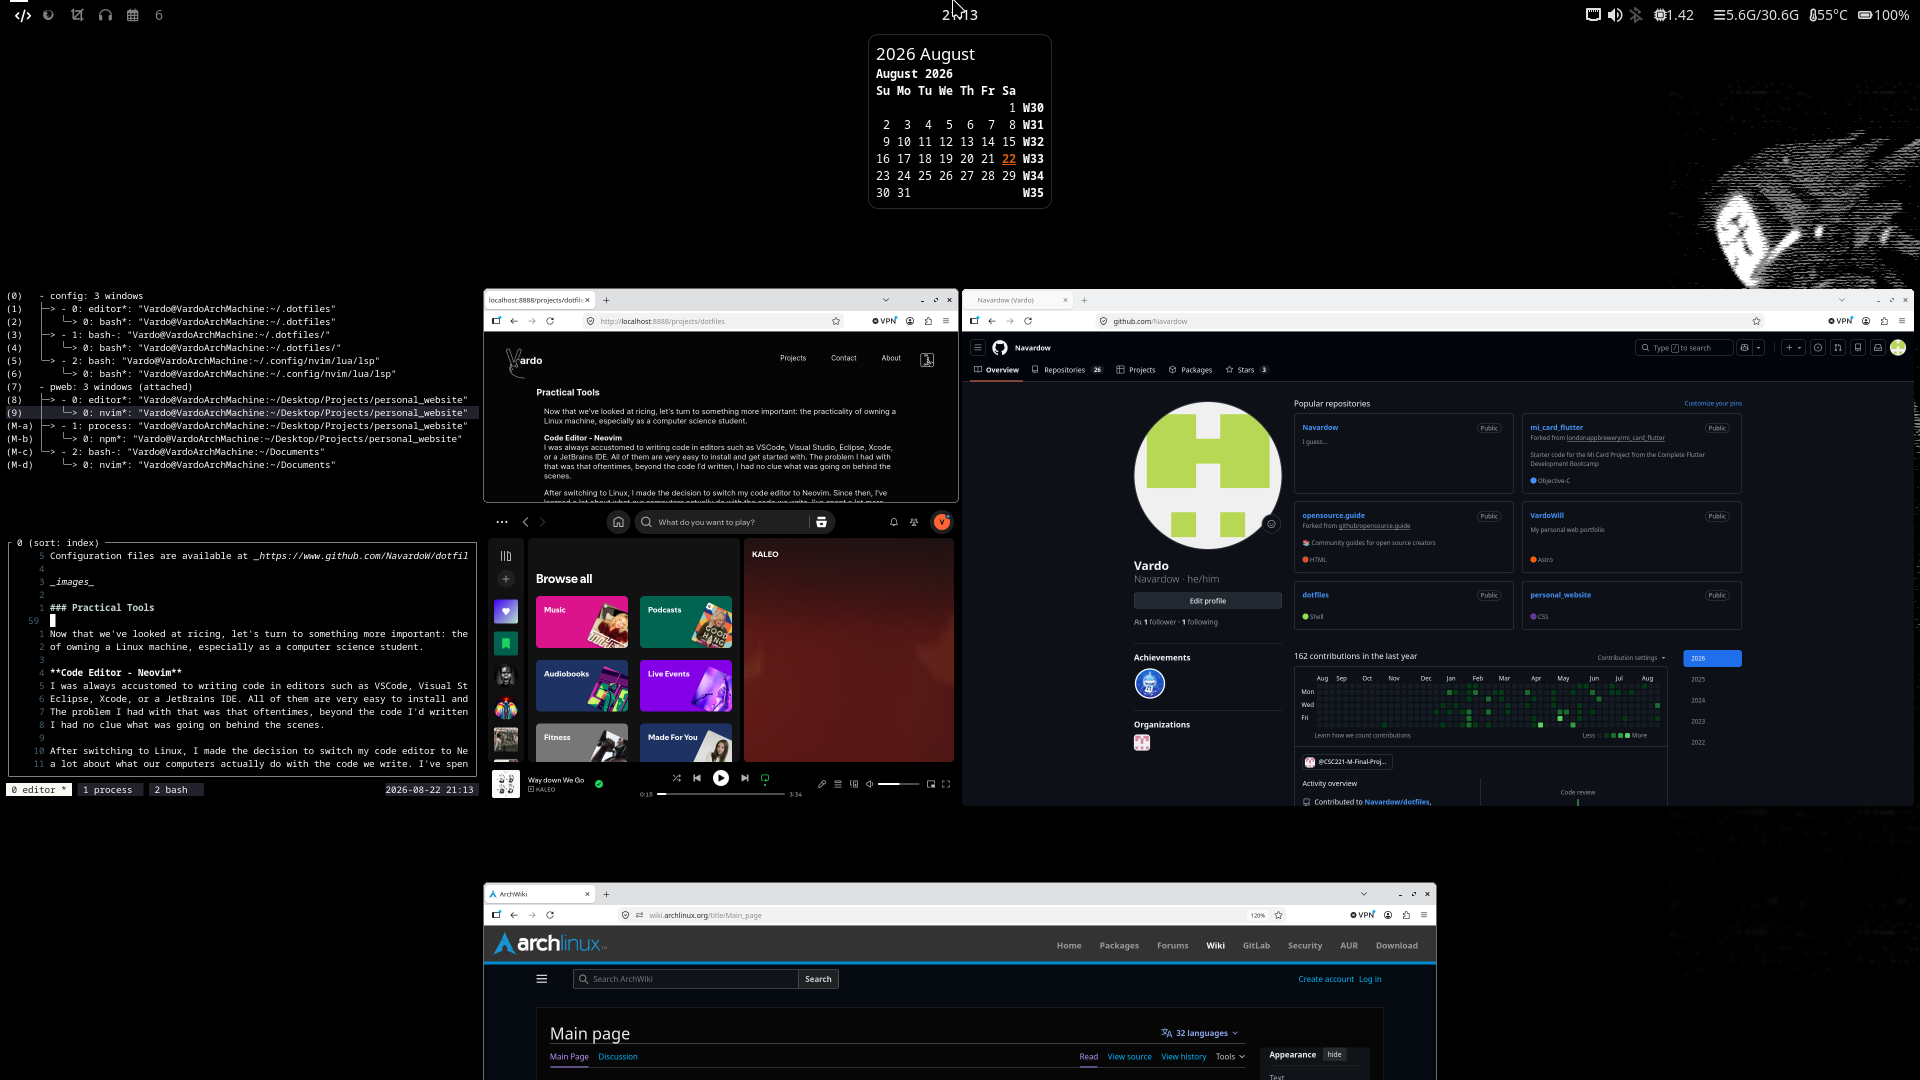
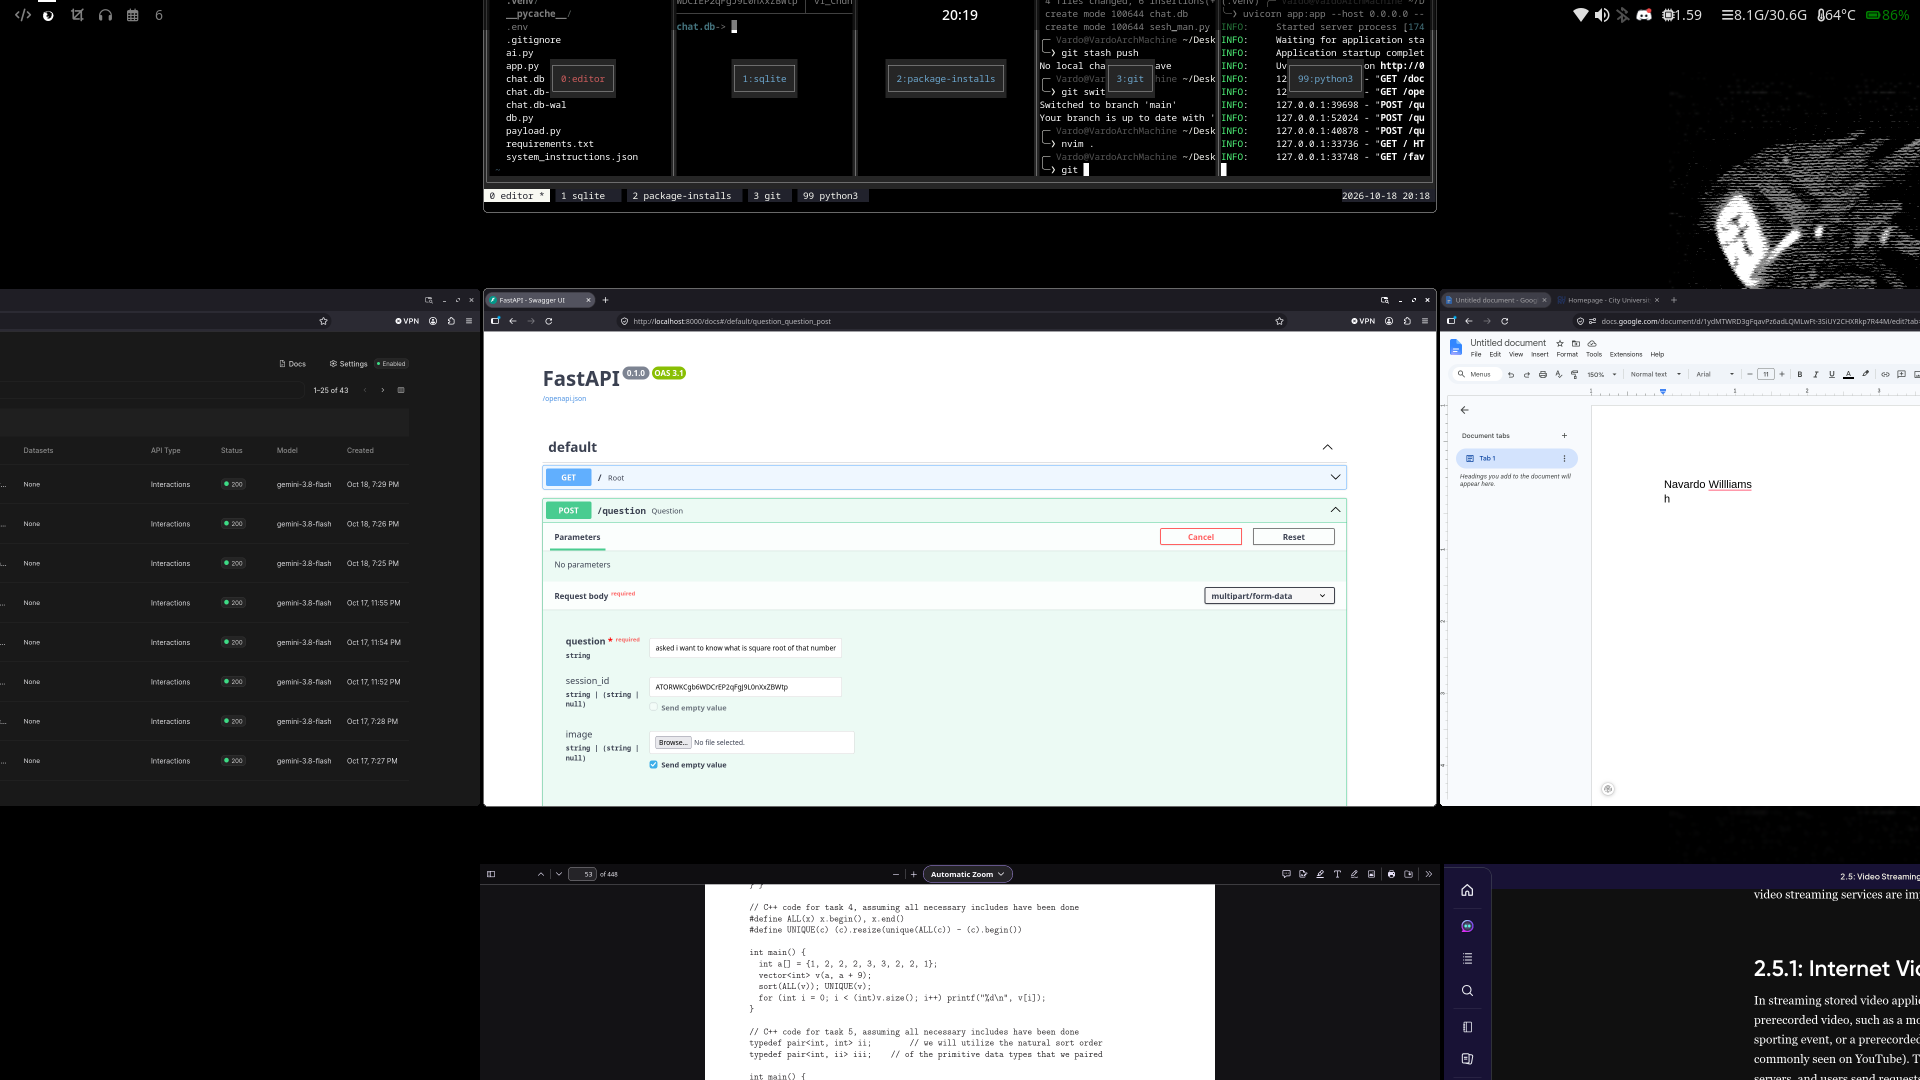
fix: popstate, changed dotfiles img

diff --git a/scripts/router.js b/scripts/router.js
@@ -3,8 +3,9 @@ import { meta } from "./data.js";
 
 const renderer = {
     image({ href, title, text }) {
-        return `<img src="${href}" alt="${text}" class="md-img"${title ? ` title="${title}"` : ""
-            }>`;
+        return `<img src="${href}" alt="${text}" class="md-img"${
+            title ? ` title="${title}"` : ""
+        }>`;
     },
     paragraph({ tokens }) {
         const text = this.parser.parseInline(tokens);
@@ -42,12 +43,15 @@ files_promises.then(async (r) => {
 export const router = {
     initialized: false,
 
-    async handle_route(path) {
-        window.history.pushState({}, "", path);
+    async handle_route(path, { push = true } = {}) {
+        if (push) window.history.pushState({}, "", path);
         window.current_location = path;
+        router.set_title(path);
+
         const main_content = document.querySelector(".main-content");
         main_content.innerHTML = "<h3> loading... </h2>";
         const html = await router.get_route(path);
+
         if (path !== "/projects") {
             main_content.innerHTML = html;
         } else {
@@ -58,6 +62,11 @@ export const router = {
 
     set_route(path, html_content) {
         routes[router.normalize_path(path)] = html_content;
+    },
+
+    set_title(path) {
+        const name = path.split("/").filter(Boolean).pop() ?? "Home";
+        document.title = name.charAt(0).toUpperCase() + name.slice(1);
     },
 
     async get_route(path) {

diff --git a/styles/base.css b/styles/base.css
@@ -26,30 +26,25 @@ html {
 
 body {
     min-height: 100vh;
-    min-width: 100vw;
     padding: 0 2rem;
     margin: 0;
     color: rgb(var(--color-text));
     background-color: rgb(var(--color-bg));
-    transition: background-color 0.3s;
     font-family: "Inter", sans-serif;
-    /*font-family: 'Brush Script MT';*/
 }
 
-body,
-body * {
+body *,
+body {
     transition:
         background-color 0.3s ease,
-        color 0.3s ease,
-        border-color 0.3s ease,
-        fill 0.3s ease,
-        stroke 0.3s ease;
+        color 0.3s ease;
 }
 
 a,
 a:visited {
     color: rgb(var(--color-text));
     text-decoration: none;
+    transition: color 0.3s ease;
 }
 
 ul {
@@ -81,7 +76,6 @@ hr {
     height: 100%;
     max-width: 1200px;
     margin-inline: auto;
-    padding-inline: clamp(1rem, 3vw, 2rem);
     padding: 0 5rem 5rem;
 }
 
@@ -97,9 +91,7 @@ hr {
     body {
         padding: 0;
     }
-    body * {
-        transition: all 0.15s ease;
-    }
+
     p,
     li,
     a {

diff --git a/scripts/main.js b/scripts/main.js
@@ -9,7 +9,8 @@ import { uva_stats, leet_stats } from "./inject.mjs";
 await main();
 
 router.set_route("/", document.querySelector(".main-content").innerHTML);
-window.onpopstate = () => router.handle_route(window.location.pathname);
+window.onpopstate = () =>
+    router.handle_route(window.location.pathname, { push: false });
 window.router = router;
 window.current_location = window.location.pathname;
 
@@ -30,8 +31,10 @@ async function main() {
         const link = e.target.closest(".site-link");
 
         if (!link) return;
+        const path = new URL(link.href).pathname;
         e.preventDefault();
-        await router.handle_route(new URL(link.href).pathname);
+        await router.handle_route(path);
+        router.set_title(path);
     });
 }
 

diff --git a/index.html b/index.html
@@ -4,11 +4,13 @@
 <head>
     <meta charset="UTF-8">
     <meta name="viewport" content="width=device-width, initial-scale=1">
-    <title></title>
+    <title>Home</title>
+    <link rel="preconnect" href="https://fonts.gstatic.com" crossorigin>
+    <link rel="preconnect" href="https://fonts.googleapis.com">
+    <link href="https://fonts.googleapis.com/css2?family=Inter:wght@400;500;600&display=swap" rel="stylesheet">
     <link href="/styles/style.css" rel="stylesheet">
     <script src="/scripts/main.js" type="module" defer></script>
 </head>
-
 <body>
     <nav>
         <a href="/" class="logo-wrapper site-link">
